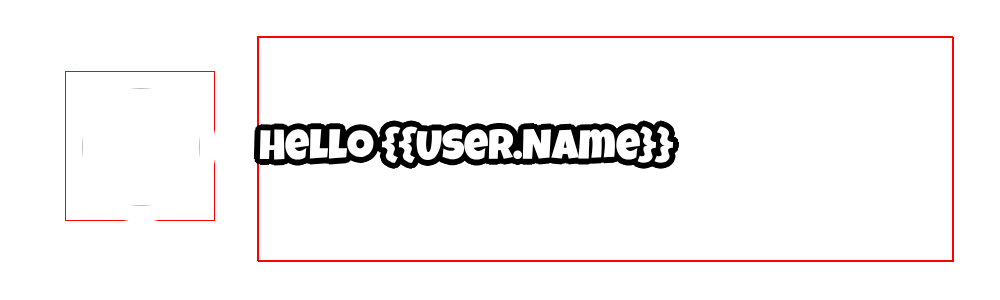
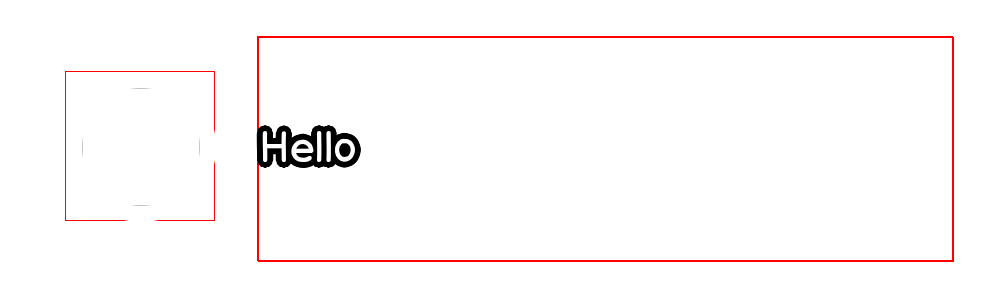
Add markdown and formatting to testing

Changed region(s): [[0.248, 0.39, 0.682, 0.57]]

diff --git a/welcomer-images-next/cmd/main.go b/welcomer-images-next/cmd/main.go
@@ -5,6 +5,7 @@ import (
 	"encoding/json"
 	"net"
 	"os"
+	"time"
 
 	"github.com/WelcomerTeam/Welcomer/welcomer-core"
 	"github.com/WelcomerTeam/Welcomer/welcomer-images-next/service"
@@ -15,16 +16,13 @@ var pool *service.URLPool
 func call() {
 	var customWelcomerImage welcomer.CustomWelcomerImage
 
-	// _ = json.Unmarshal([]byte(`{"fill": "solid:profile", "layers": [{"fill": "#ffffff", "type": 0, "value": "Welcome {{User.Name}} to {{Guild.Name}}\nyou are the {{Ordinal(Guild.Members)}} member!", "stroke": {"color": "#000000FF", "width": 3}, "position": [264, 32], "rotation": 0, "dimensions": [704, 236], "inverted_x": false, "inverted_y": false, "typography": {"font_size": 32, "font_family": "Balsamiq Sans", "font_weight": "bold", "line_height": 1.2, "letter_spacing": 0, "vertical_alignment": "center", "horizontal_alignment": "left"}, "border_radius": ["0", "0", "0", "0"]}, {"fill": "#FFFFFFFF", "type": 1, "value": "{{User.Avatar}}", "stroke": {"color": "#FFFFFFFF", "width": 8}, "position": [32, 50], "rotation": 0, "dimensions": [200, 200], "inverted_x": false, "inverted_y": false, "border_radius": ["100%", "100%", "100%", "100%"]}], "stroke": {"color": "#00000000", "width": 0}, "dimensions": [1000, 300]}`), &customWelcomerImage)
-	_ = json.Unmarshal([]byte(`{"fill": "rainbow", "layers": [{"fill": "ref:019b0a95-a5c0-767b-b7f8-9d928ca4a615", "type": 2, "value": "", "stroke": {"color": "#ffffff00", "width": 0}, "position": [222, 315], "rotation": 0, "dimensions": [759, 206], "inverted_x": false, "inverted_y": false, "border_radius": ["0", "0", "0", "0"]}, {"fill": "#ffffff", "type": 0, "value": "Hello {{User.Name}} ", "stroke": {"color": "#000000", "width": 6}, "position": [241, 20], "rotation": 0, "dimensions": [696, 225], "inverted_x": false, "inverted_y": false, "typography": {"font_size": 42, "font_family": "Luckiest Guy", "font_weight": "regular", "line_height": 1.2, "letter_spacing": 0, "vertical_alignment": "center", "horizontal_alignment": "left"}, "border_radius": ["0", "0", "0", "0"]}, {"fill": "#ffffff", "type": 1, "value": "{{User.Avatar}}", "stroke": {"color": "#FFFFFF", "width": 16}, "position": [49, 55], "rotation": 0, "dimensions": [150, 150], "inverted_x": false, "inverted_y": false, "border_radius": ["100%", "100%", "100%", "100%"]}], "stroke": {"color": "#FFFFFF", "width": 16}, "dimensions": [1000, 300]}`), &customWelcomerImage)
+	_ = json.Unmarshal([]byte(`{"fill": "rainbow", "layers": [{"fill": "ref:019b0a95-a5c0-767b-b7f8-9d928ca4a615", "type": 2, "value": "", "stroke": {"color": "#ffffff00", "width": 0}, "position": [222, 315], "rotation": 0, "dimensions": [759, 206], "inverted_x": false, "inverted_y": false, "border_radius": ["0", "0", "0", "0"]}, {"fill": "#ffffff", "type": 0, "value": "Hello {{User.Name}} ", "stroke": {"color": "#000000", "width": 6}, "position": [241, 20], "rotation": 0, "dimensions": [696, 225], "inverted_x": false, "inverted_y": false, "typography": {"font_size": 42, "font_family": "Balsamiq Sans", "font_weight": "regular", "line_height": 1.2, "letter_spacing": 0, "vertical_alignment": "center", "horizontal_alignment": "left"}, "border_radius": ["0", "0", "0", "0"]}, {"fill": "#ffffff", "type": 1, "value": "{{User.Avatar}}", "stroke": {"color": "#FFFFFF", "width": 16}, "position": [49, 55], "rotation": 0, "dimensions": [150, 150], "inverted_x": false, "inverted_y": false, "border_radius": ["100%", "100%", "100%", "100%"]}], "stroke": {"color": "#FFFFFF", "width": 16}, "dimensions": [1000, 300]}`), &customWelcomerImage)
 
 	builder := service.GenerateCanvas(customWelcomerImage)
 	html := builder.String()
 
-	println(html)
-
 	ctx := context.Background()
-	// ctx, _ = context.WithTimeout(ctx, time.Second*5)
+	ctx, _ = context.WithTimeout(ctx, time.Second*5)
 
 	resp, err := service.ScreenshotFromHTML(ctx, pool, html)
 	if err != nil {
@@ -40,11 +38,14 @@ func call() {
 
 func discoverChromedp(startPort, endPort int64) {
 	urls := []string{}
-	for port := startPort; port <= endPort; port++ {
-		println("Probing port", port)
 
+	println("Probing ports")
+
+	for port := startPort; port <= endPort; port++ {
 		conn, err := net.Dial("tcp", "127.0.0.1:"+welcomer.Itoa(port))
 		if err != nil {
+			println("Cannot connect to", port)
+
 			continue
 		}
 
@@ -52,6 +53,8 @@ func discoverChromedp(startPort, endPort int64) {
 
 		urls = append(urls, "ws://127.0.0.1:"+welcomer.Itoa(port))
 	}
+
+	println("Done")
 
 	pool = service.NewURLPool(urls)
 }

diff --git a/welcomer-images-next/service/generator.go b/welcomer-images-next/service/generator.go
@@ -3,23 +3,56 @@ package service
 import (
 	"html"
 	"strings"
+	"time"
 
+	"github.com/WelcomerTeam/Discord/discord"
 	"github.com/WelcomerTeam/Welcomer/welcomer-core"
+	"github.com/WelcomerTeam/Welcomer/welcomer-core/database"
 )
 
 func GenerateCanvas(customImage welcomer.CustomWelcomerImage) strings.Builder {
 	builder := strings.Builder{}
 
-	builder.WriteString(`<!DOCTYPE html><html lang="en"><head><meta charset="UTF-8"><meta name="viewport" content="width=device-width, initial-scale=1.0">`)
-
-	// load font stylesheets
-	FetchFonts(&builder, customImage)
-
-	builder.WriteString(`</head>`)
+	builder.WriteString(`<!DOCTYPE html><html lang="en"><head><meta charset="UTF-8"><meta name="viewport" content="width=device-width, initial-scale=1.0"></head>`)
 
 	builder.WriteString(`<body><div id="canvas" style="`)
 	getCanvasStyle(customImage).Build(&builder)
 	builder.WriteString(`">`)
+
+	functions := welcomer.GatherFunctions(database.NumberLocale(database.NumberLocaleDots))
+	variables := welcomer.GatherVariables(nil, &discord.GuildMember{
+		JoinedAt:                   time.Time{},
+		CommunicationDisabledUntil: &time.Time{},
+		PremiumSince:               &time.Time{},
+		User: &discord.User{
+			Banner:        "",
+			GlobalName:    "",
+			Avatar:        "",
+			Username:      "",
+			Discriminator: "",
+			Locale:        "",
+			Email:         "",
+			ID:            0,
+			PremiumType:   0,
+			Flags:         0,
+			AccentColor:   0,
+			PublicFlags:   0,
+			MFAEnabled:    false,
+			Verified:      false,
+			Bot:           false,
+			System:        false,
+		},
+		Nick:    "",
+		Avatar:  "",
+		Roles:   discord.SnowflakeList{},
+		Deaf:    false,
+		Mute:    false,
+		Pending: false,
+	}, welcomer.GuildVariables{
+		Guild:         &discord.Guild{},
+		MembersJoined: 123,
+		NumberLocale:  database.NumberLocale(database.NumberLocaleDots),
+	}, nil, nil)
 
 	for index, layer := range customImage.Layers {
 		builder.WriteString(`<div style="`)
@@ -28,22 +61,47 @@ func GenerateCanvas(customImage welcomer.CustomWelcomerImage) strings.Builder {
 
 		switch layer.Type {
 		case welcomer.CustomWelcomerImageLayerTypeText:
+			formattedValue, err := welcomer.FormatString(functions, variables, layer.Value)
+			if err != nil {
+				welcomer.Logger.Error().Err(err).Int("layer_idx", index).Msg("failed to format string for custom welcomer image layer")
+
+				continue
+			}
+
+			markdownValue, err := Render(formattedValue)
+			if err != nil {
+				welcomer.Logger.Error().Err(err).Int("layer_idx", index).Msg("failed to render markdown for custom welcomer image layer")
+
+				continue
+			}
+
 			builder.WriteString("<div style=\"")
 			getObjectStyle(layer, len(customImage.Layers), index).Build(&builder)
 			builder.WriteString(`"><span>`)
 
-			// TODO: this needs to output as markdown
-			// TODO: this needs to be formatted.
-			builder.WriteString(html.EscapeString(layer.Value))
+			builder.WriteString(html.EscapeString(markdownValue))
 
 			builder.WriteString(`</span></div>`)
 		case welcomer.CustomWelcomerImageLayerTypeImage:
+			formattedValue, err := welcomer.FormatString(functions, variables, layer.Value)
+			if err != nil {
+				welcomer.Logger.Error().Err(err).Int("layer_idx", index).Msg("failed to format string for custom welcomer image layer")
+
+				continue
+			}
+
+			markdownValue, err := Render(formattedValue)
+			if err != nil {
+				welcomer.Logger.Error().Err(err).Int("layer_idx", index).Msg("failed to render markdown for custom welcomer image layer")
+
+				continue
+			}
+
 			builder.WriteString("<img style=\"")
 			getObjectStyle(layer, len(customImage.Layers), index).Build(&builder)
 			builder.WriteString(`" src="`)
 
-			// TODO: this needs to be formatted.
-			builder.WriteString(html.EscapeString(layer.Value))
+			builder.WriteString(html.EscapeString(markdownValue))
 
 			builder.WriteString(`"><img>`)
 		case welcomer.CustomWelcomerImageLayerTypeShapeRectangle, welcomer.CustomWelcomerImageLayerTypeShapeCircle:

diff --git a/welcomer-core/formatting.go b/welcomer-core/formatting.go
@@ -357,6 +357,10 @@ func GetGuildMemberDisplayName(member *discord.GuildMember) string {
 }
 
 func GetUserDisplayName(user *discord.User) string {
+	if user == nil {
+		return ""
+	}
+
 	if user.GlobalName != "" {
 		return user.GlobalName
 	}
